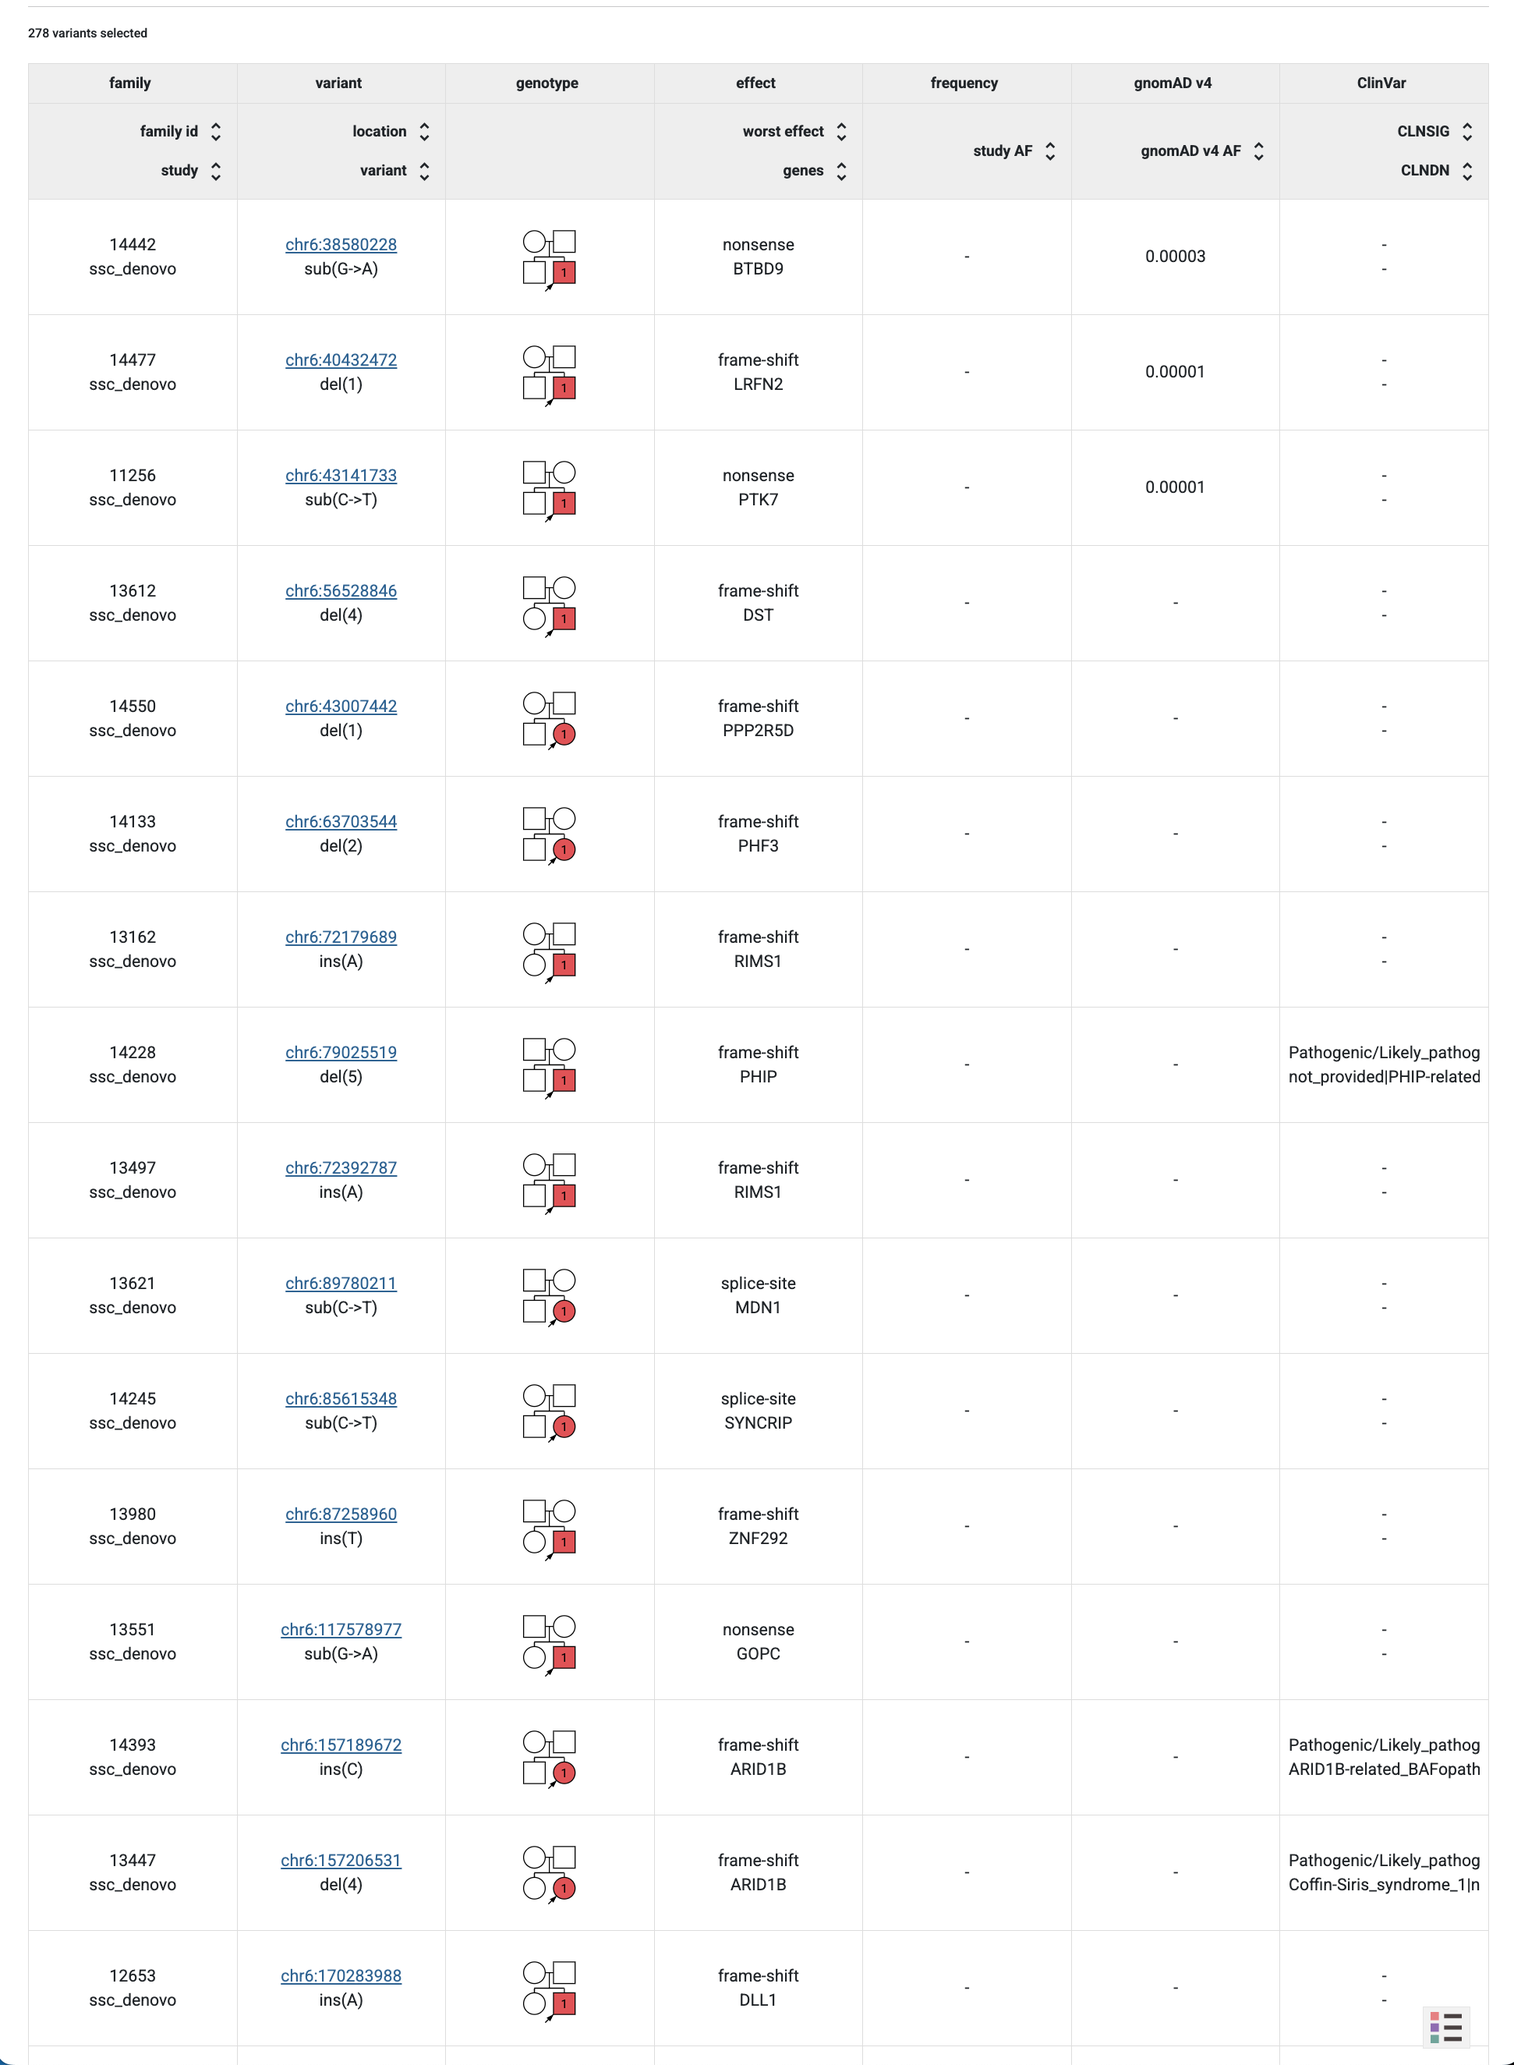
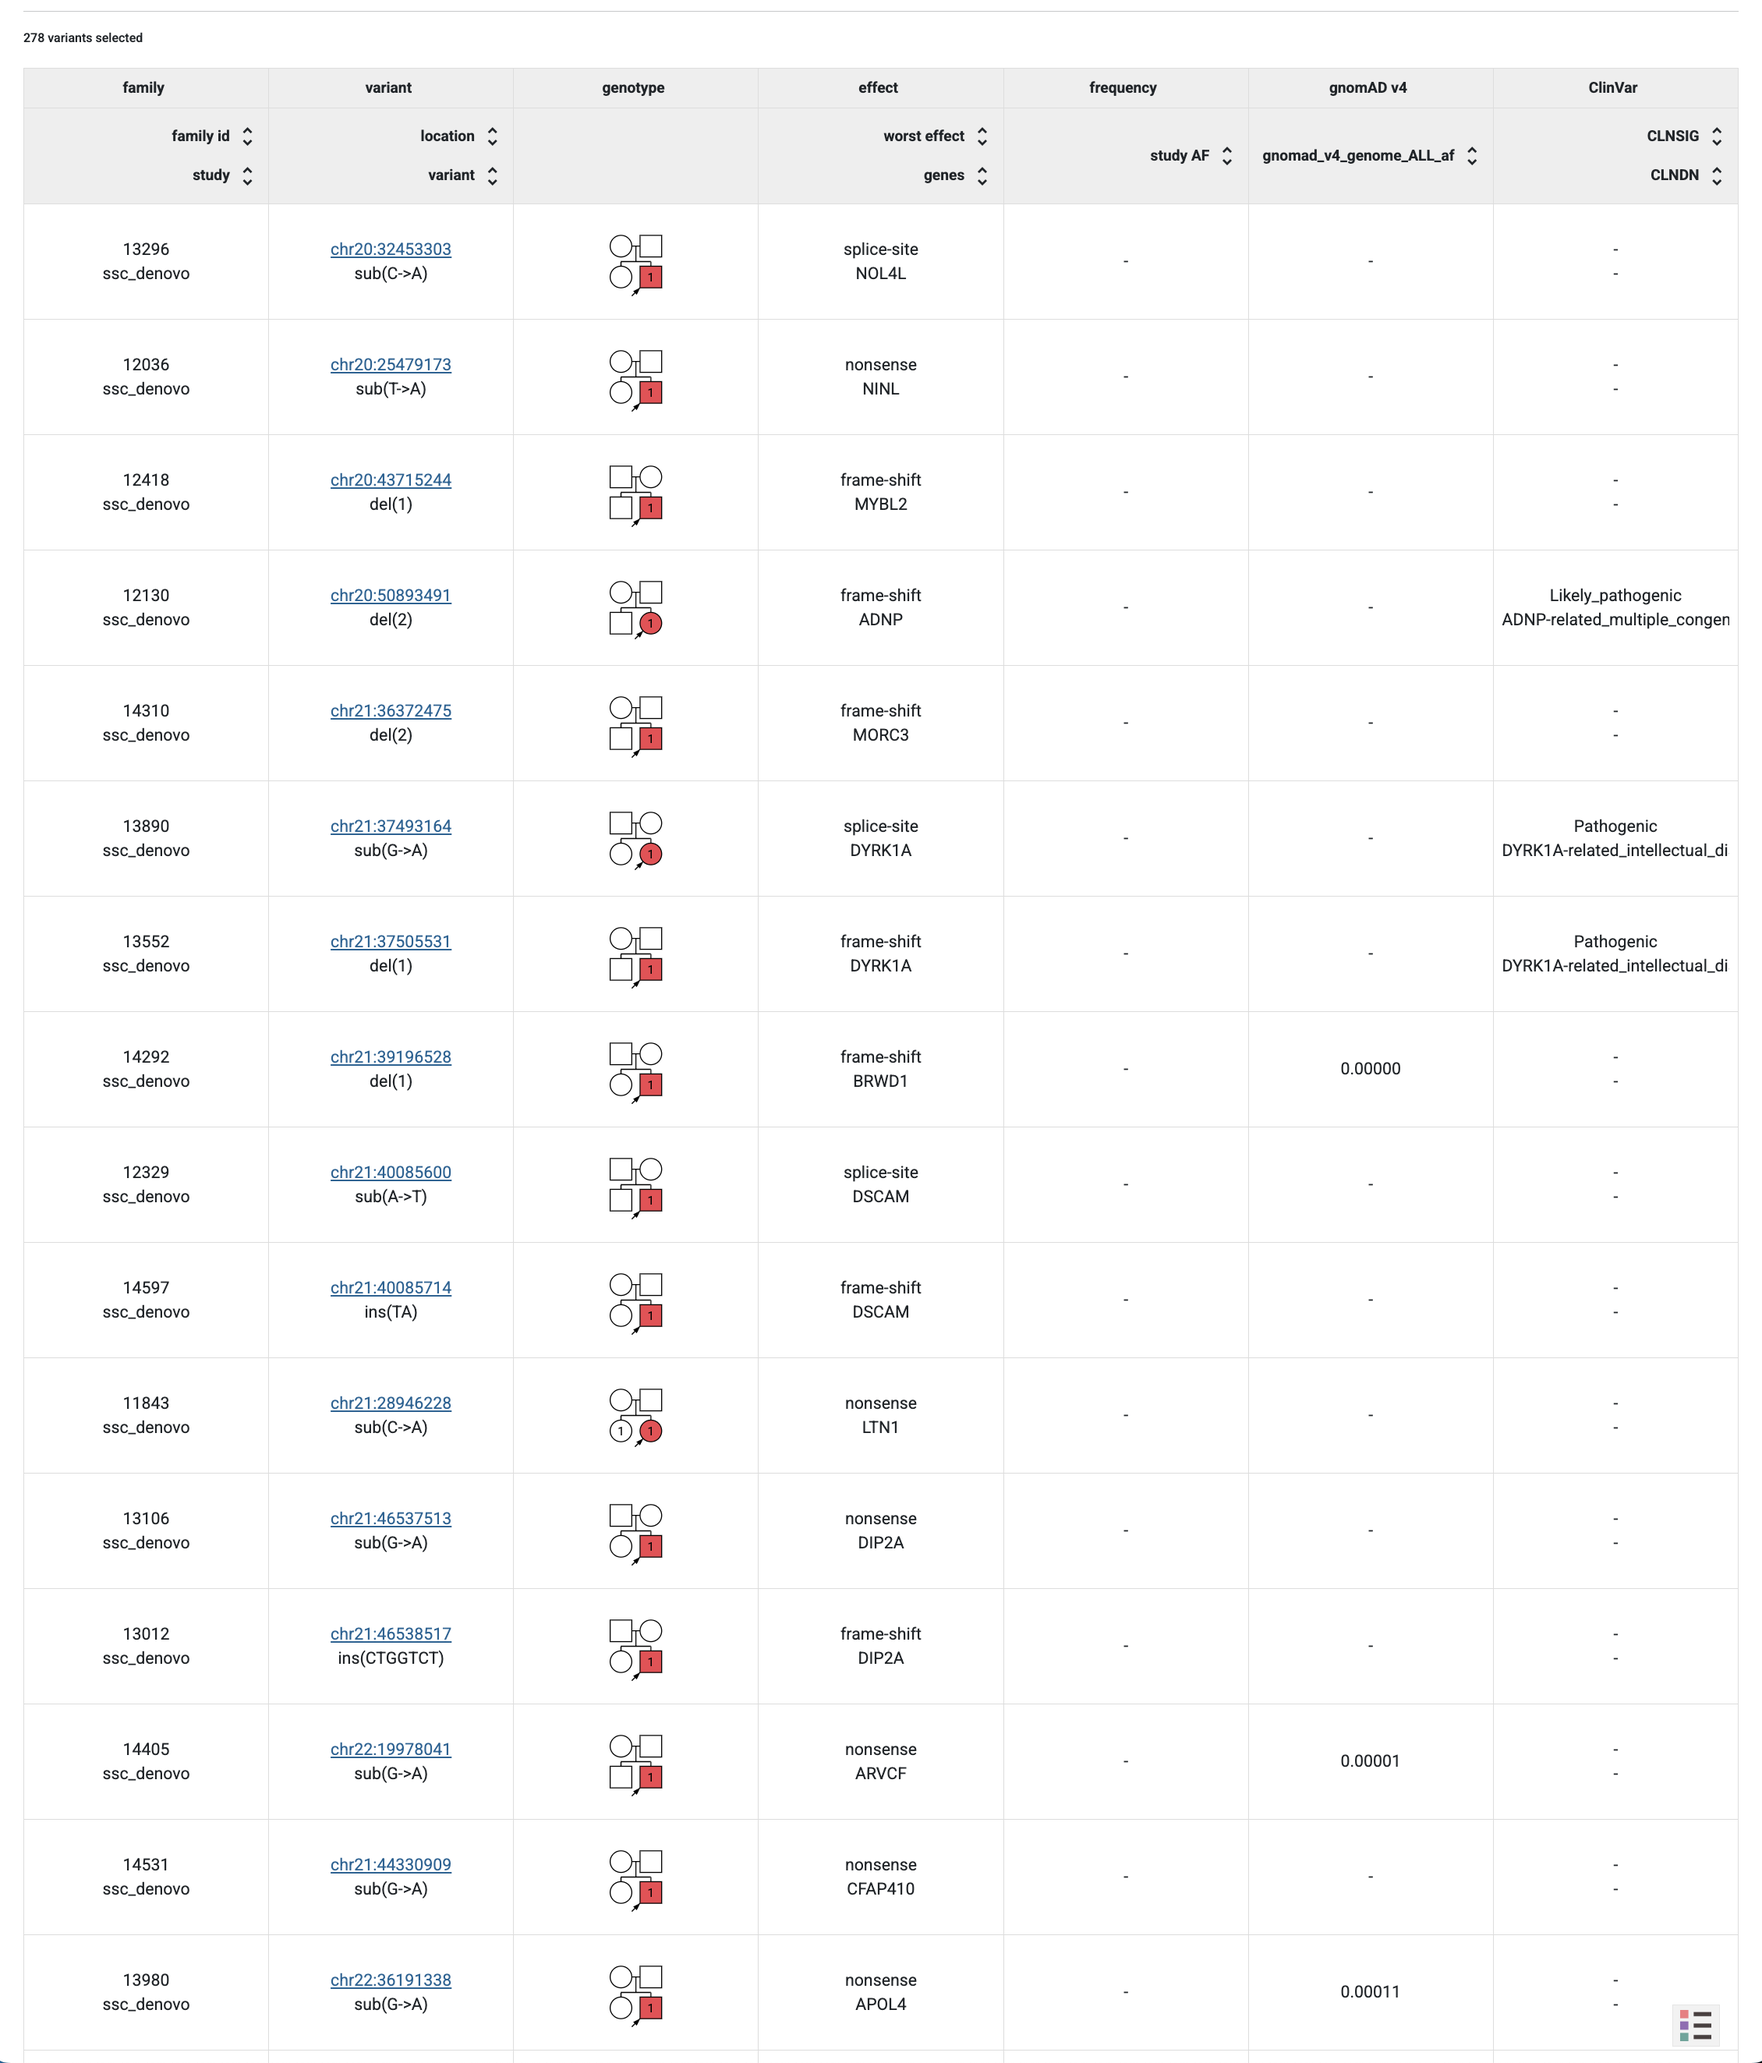
Polish the GSG section on import of ssc_denovo

diff --git a/userdocs/administration/getting_started/example_denovo_import.rst b/userdocs/administration/getting_started/example_denovo_import.rst
@@ -275,19 +275,24 @@ To import the study, from the ``gpf-getting-started`` directory we should run:
 
     time import_genotypes -v -j 10 example_imports/denovo_and_cnv_import/ssc_denovo.yaml
 
-This command will take a while to run. The time it takes to run will depend on
-the number of variants in the input file and the number of threads used for
-the import. For example, on a machine with 10 threads, the import of the SSC
-de Novo variants took about 5 minutes to run:
-
-.. code-block:: bash
-
-    real    5m29.950s
-    user    31m52.320s
-    sys     1m41.755s
-
 The ``-j 10`` option instructs the ``import_genotypes`` tool to use 10 threads
 and the ``-v`` option controls the verbosity of the output.
+
+This command will take a while to run. The time it takes to run will depend on
+the number of variants in the input file and the number of threads used for
+the import. 
+
+.. note:: 
+
+    For example, on a MacBook Pro with Apple M1 Pro chip, the import of the SSC
+    de Novo variants took about 5 minutes:
+
+    .. code-block:: bash
+
+        real    5m29.950s
+        user    31m52.320s
+        sys     1m41.755s
+
 
 When the import finishes, we can run the development GPF server:
 
@@ -330,39 +335,21 @@ snippet to the configuration file:
     :linenos:
 
     genotype_browser:
-      columns:
-        genotype:
-          gnomad_v4_genome_af:
-            name: gnomAD v4 AF
-            source: gnomad_v4_genome_ALL_af
-            format: "%%.5f"
-          clinvar_clnsig:
-            name: CLNSIG
-            source: CLNSIG
-          clinvar_clndn:
-            name: CLNDN
-            source: CLNDN
-
       column_groups:
         gnomad_v4:
           name: gnomAD v4
           columns:
-          - gnomad_v4_genome_af
+          - gnomad_v4_genome_ALL_af
 
         clinvar:
           name: ClinVar
           columns:
-          - clinvar_clnsig
-          - clinvar_clndn
+          - CLNSIG
+          - CLNDN
 
       preview_columns_ext:
         - gnomad_v4
         - clinvar
-
-      download_columns_ext:
-        - gnomad_v4_genome_af
-        - clinvar_clnsig
-        - clinvar_clndn
 
 Now, restart the GPF development server:
 
